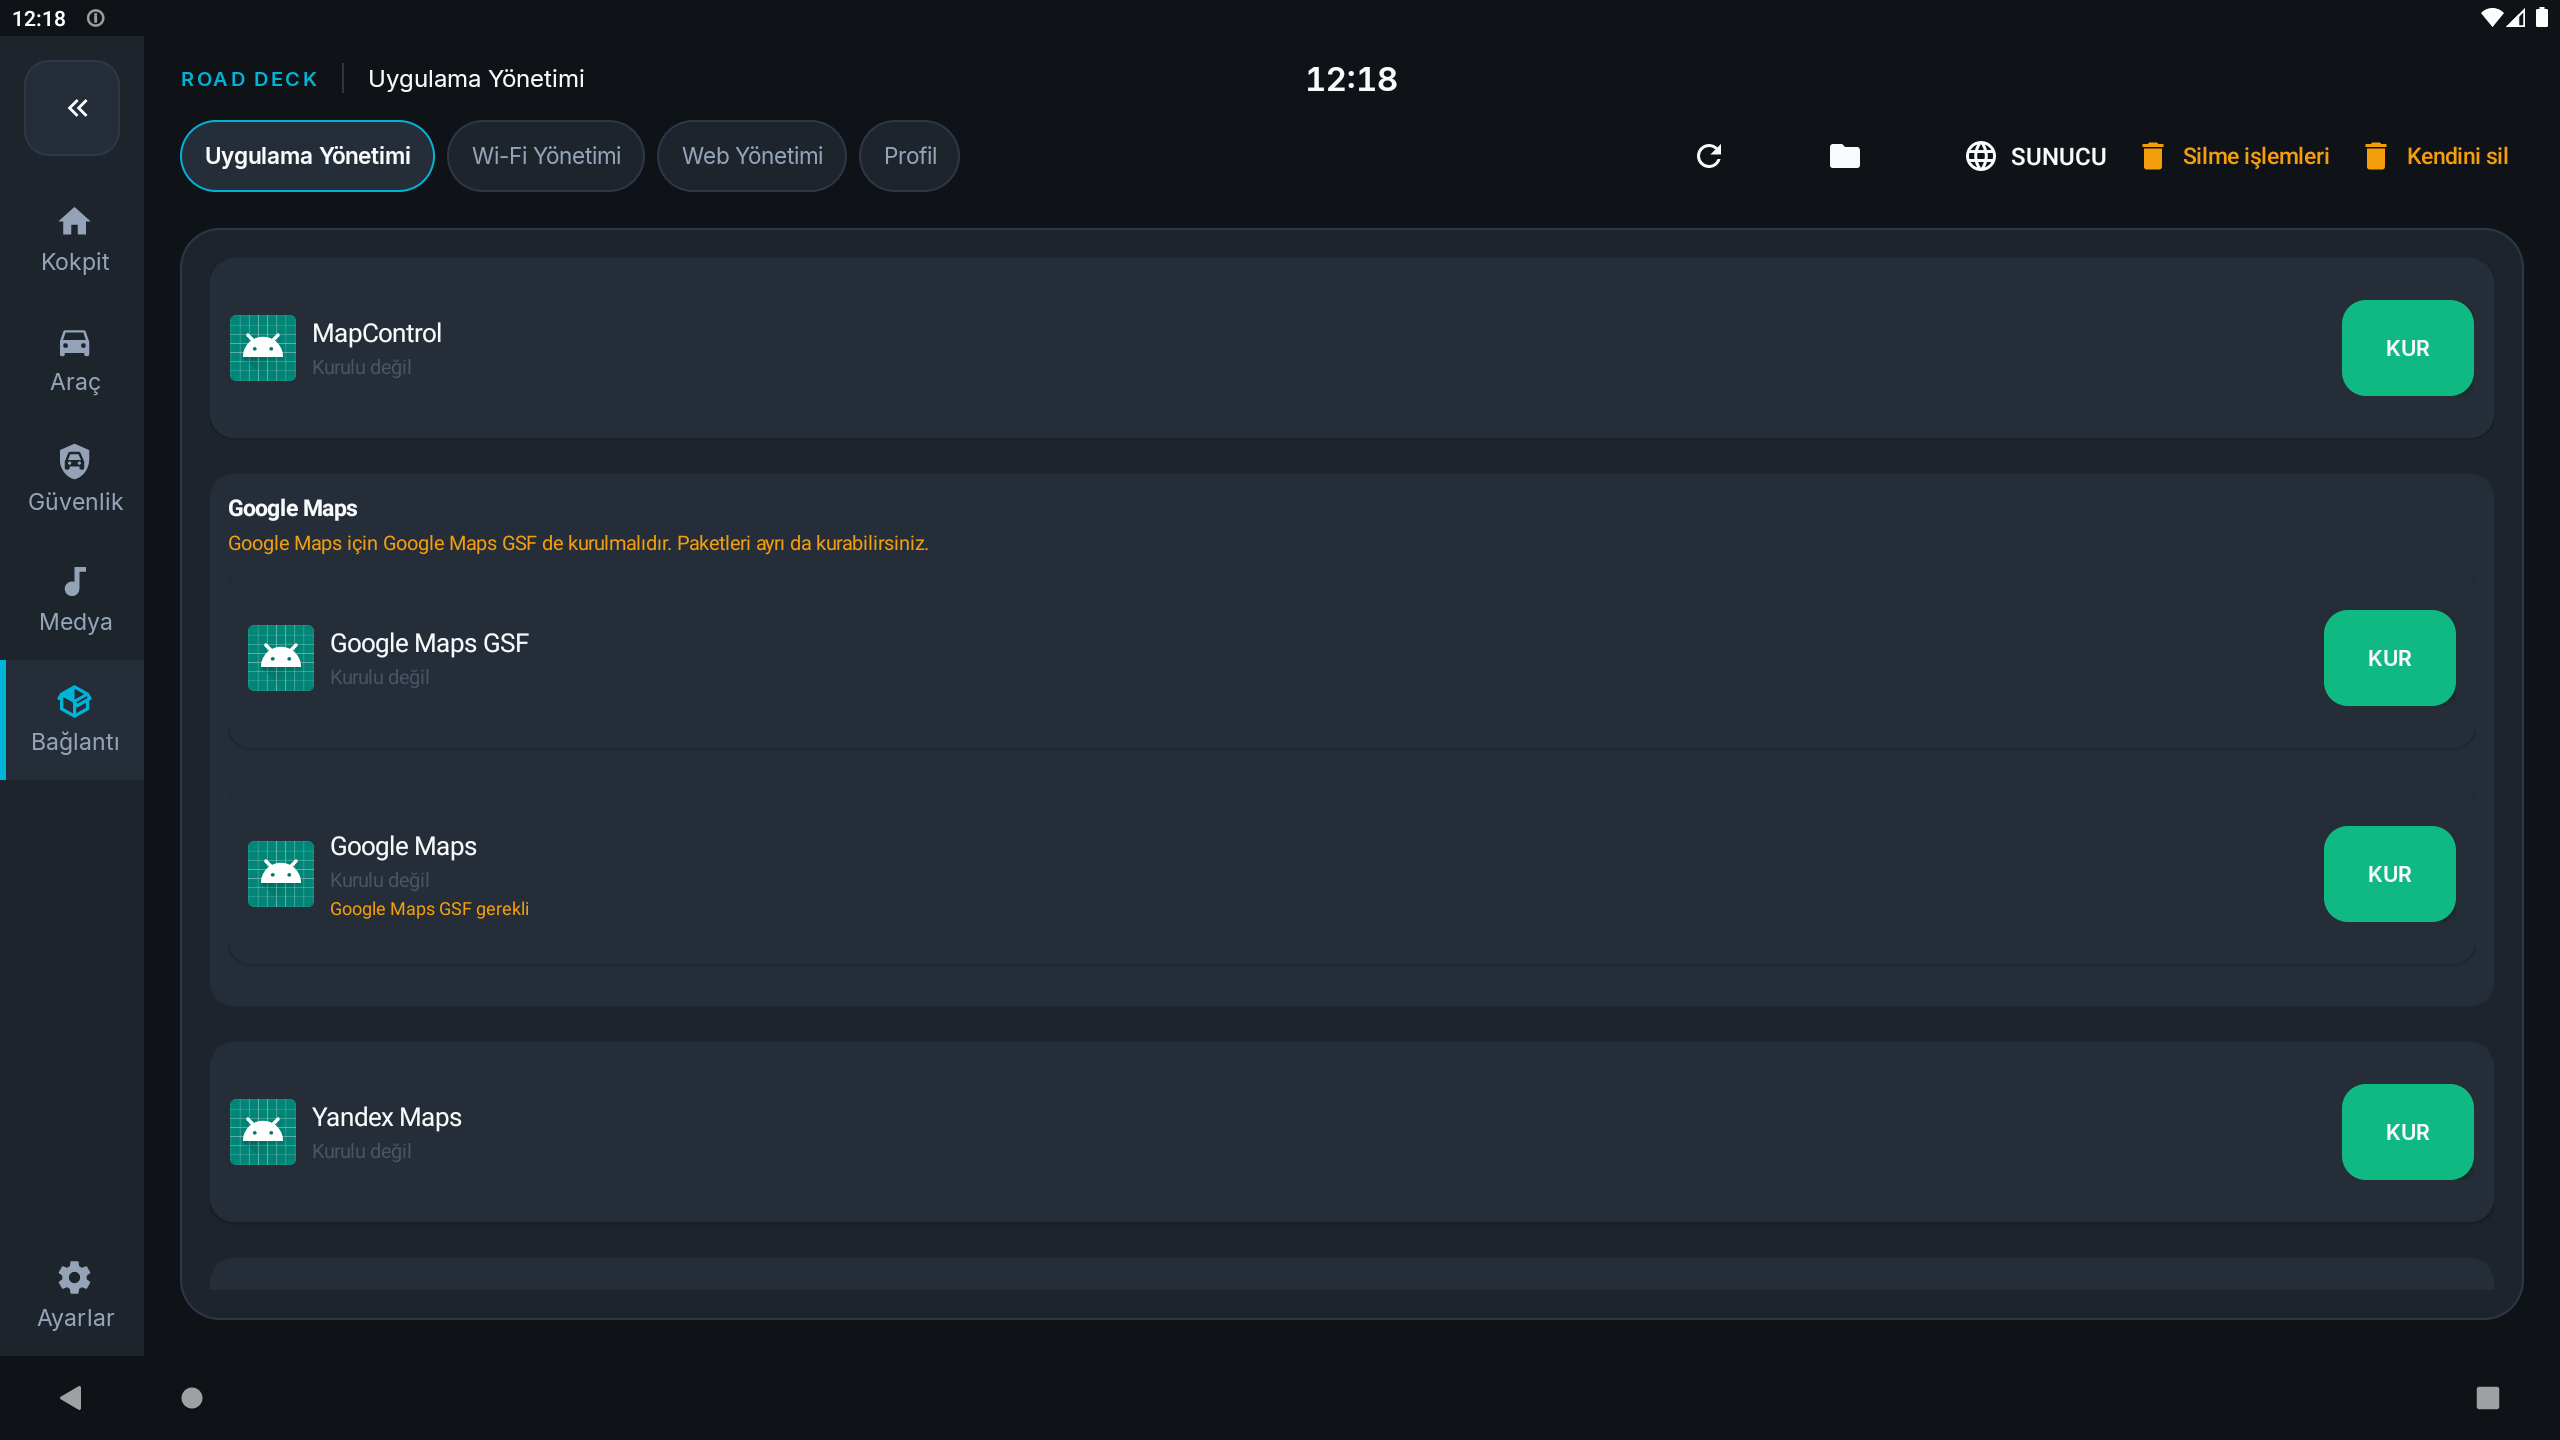
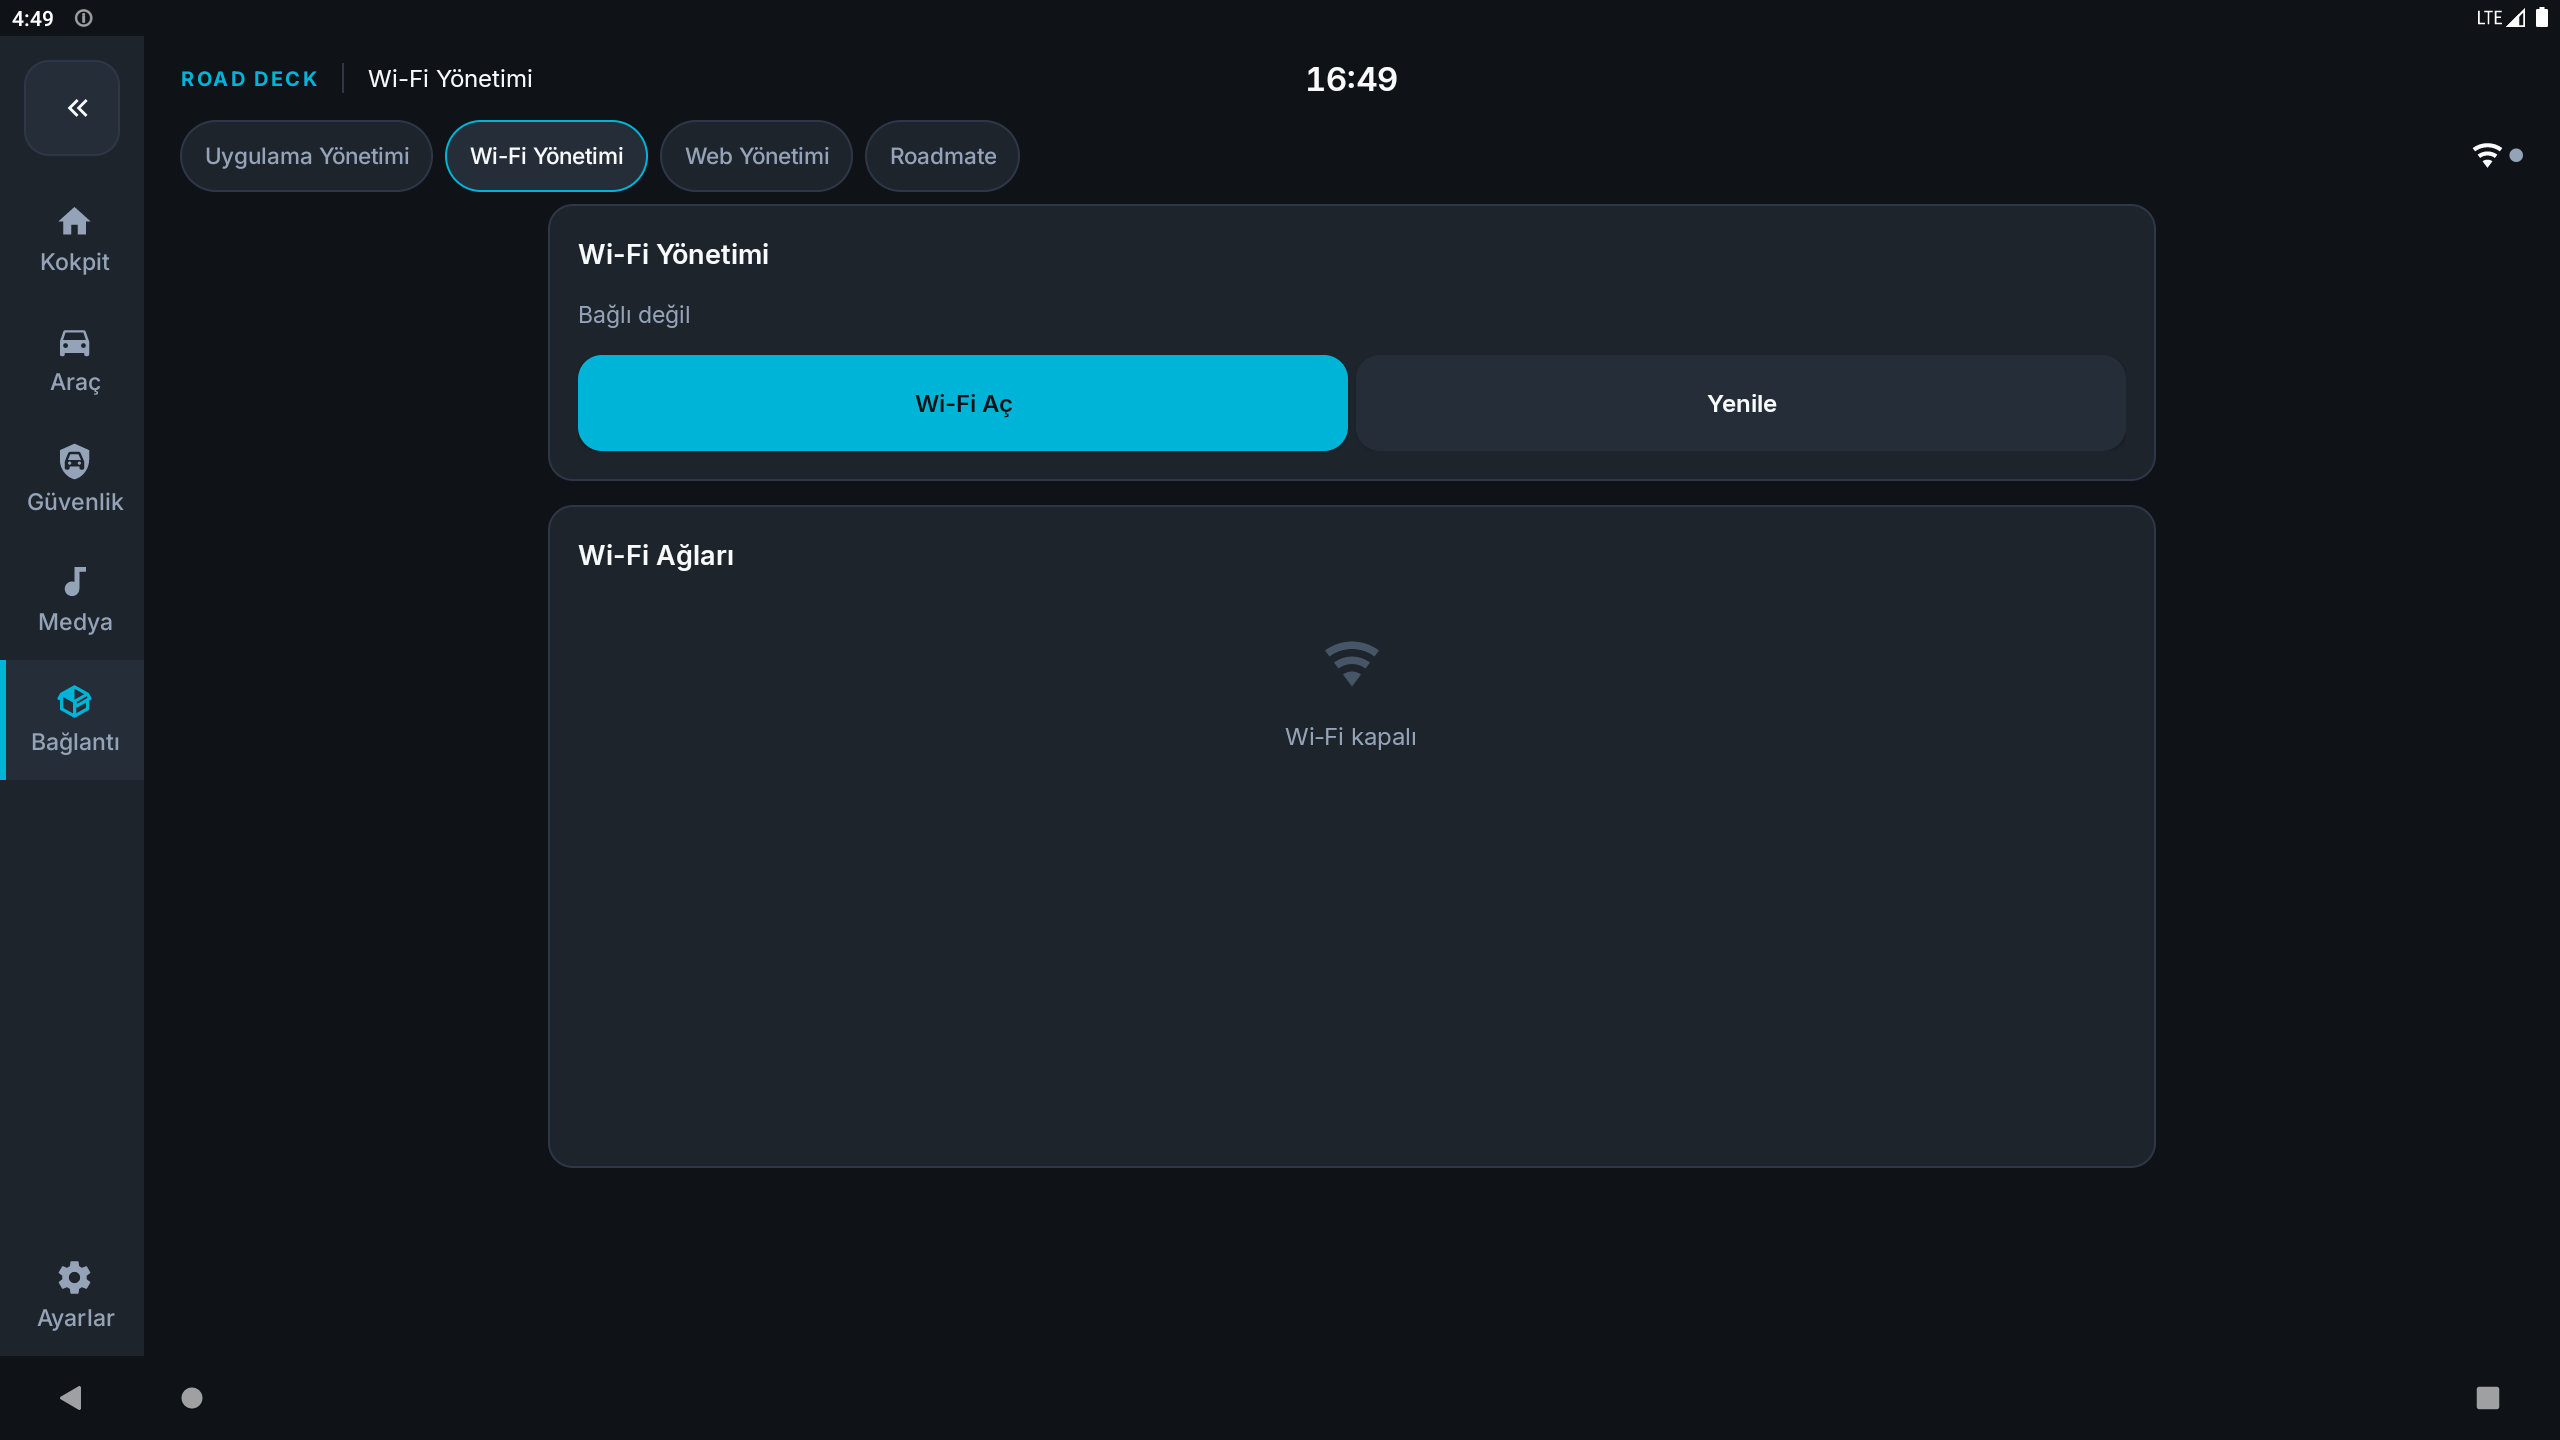
feat: Wi-Fi Yonetimi cockpit kart kompozisyonu
- Iki tam genislik CockpitCard: kontrol + ag listesi
- Wi-Fi Ac primary, Yenile secondary; 16sp semibold
- Wi-Fi kapaliyken ag kartinda CockpitEmptyState
- Ag satirlari level2, 18/15sp; durum ve sinyal renkleri token
- Tarama/toggle callback'leri korundu

diff --git a/app/src/main/java/com/mapcontrol/ui/builder/WifiTabBuilder.java b/app/src/main/java/com/mapcontrol/ui/builder/WifiTabBuilder.java
@@ -26,7 +26,9 @@ import androidx.appcompat.widget.AppCompatImageView;
 import androidx.core.content.ContextCompat;
 
 import com.mapcontrol.R;
+import com.mapcontrol.ui.cockpit.CockpitCard;
 import com.mapcontrol.ui.cockpit.CockpitEmptyState;
+import com.mapcontrol.ui.cockpit.CockpitSurfaces;
 import com.mapcontrol.ui.cockpit.CockpitTokens;
 import com.mapcontrol.ui.theme.UiStyles;
 
@@ -57,47 +59,29 @@ public class WifiTabBuilder {
     public LinearLayout build() {
         wifiTabContent = new LinearLayout(context);
         wifiTabContent.setOrientation(LinearLayout.VERTICAL);
-        wifiTabContent.setBackgroundColor(UiStyles.color(context, R.color.transparent));
-        int outerPad = UiStyles.dimenPx(context, R.dimen.oem_card_margin);
-        wifiTabContent.setPadding(outerPad, outerPad, outerPad, outerPad);
+        wifiTabContent.setBackgroundColor(android.graphics.Color.TRANSPARENT);
+        int margin = CockpitTokens.dim(context, R.dimen.ck_margin);
+        wifiTabContent.setPadding(margin, CockpitTokens.dim(context, R.dimen.ck_space_sm),
+                margin, margin);
 
-        if (context.getResources().getConfiguration().screenWidthDp >= 1000) {
-            LinearLayout columns = new LinearLayout(context);
-            columns.setOrientation(LinearLayout.HORIZONTAL);
-            columns.setBaselineAligned(false);
+        CockpitCard control = new CockpitCard(context,
+                context.getString(R.string.topbar_wifi_management));
+        LinearLayout controlBody = new LinearLayout(context);
+        controlBody.setOrientation(LinearLayout.VERTICAL);
+        control.addContent(controlBody);
+        addStatusAndControls(controlBody);
+        wifiTabContent.addView(control, new LinearLayout.LayoutParams(
+                LinearLayout.LayoutParams.MATCH_PARENT, LinearLayout.LayoutParams.WRAP_CONTENT));
 
-            LinearLayout left = createCard();
-            addPanelTitle(left, R.string.topbar_wifi_management);
-            addStatusAndControls(left);
-
-            LinearLayout right = createCard();
-            addPanelTitle(right, R.string.wifi_networks_title);
-            right.addView(createNetworkList(), new LinearLayout.LayoutParams(
-                    LinearLayout.LayoutParams.MATCH_PARENT, Math.round(220 * context.getResources().getDisplayMetrics().density)));
-
-            int gutter = UiStyles.dimenPx(context, R.dimen.spacing_medium);
-            LinearLayout.LayoutParams leftLp = new LinearLayout.LayoutParams(
-                    0, LinearLayout.LayoutParams.WRAP_CONTENT, 1f);
-            leftLp.setMarginEnd(gutter / 2);
-            LinearLayout.LayoutParams rightLp = new LinearLayout.LayoutParams(
-                    0, LinearLayout.LayoutParams.WRAP_CONTENT, 1f);
-            rightLp.setMarginStart(gutter / 2);
-            columns.addView(left, leftLp);
-            columns.addView(right, rightLp);
-            wifiTabContent.addView(columns, new LinearLayout.LayoutParams(
-                    LinearLayout.LayoutParams.MATCH_PARENT,
-                    LinearLayout.LayoutParams.WRAP_CONTENT));
-        } else {
-            LinearLayout card = createCard();
-            addPanelTitle(card, R.string.topbar_wifi_management);
-            addStatusAndControls(card);
-            card.addView(createNetworkList(), new LinearLayout.LayoutParams(
-                    LinearLayout.LayoutParams.MATCH_PARENT,
-                    Math.round(220 * context.getResources().getDisplayMetrics().density)));
-            wifiTabContent.addView(card, new LinearLayout.LayoutParams(
-                    LinearLayout.LayoutParams.MATCH_PARENT,
-                    LinearLayout.LayoutParams.WRAP_CONTENT));
-        }
+        CockpitCard networks = new CockpitCard(context,
+                context.getString(R.string.wifi_networks_title));
+        LinearLayout.LayoutParams listLp = new LinearLayout.LayoutParams(
+                LinearLayout.LayoutParams.MATCH_PARENT, CockpitTokens.dp(context, 360));
+        networks.addContent(createNetworkList(), listLp);
+        LinearLayout.LayoutParams networksLp = new LinearLayout.LayoutParams(
+                LinearLayout.LayoutParams.MATCH_PARENT, LinearLayout.LayoutParams.WRAP_CONTENT);
+        networksLp.topMargin = CockpitTokens.dim(context, R.dimen.ck_gutter);
+        wifiTabContent.addView(networks, networksLp);
 
         updateWifiStatus();
         return wifiTabContent;
@@ -106,8 +90,8 @@ public class WifiTabBuilder {
     private LinearLayout createCard() {
         LinearLayout card = new LinearLayout(context);
         card.setOrientation(LinearLayout.VERTICAL);
-        UiStyles.setGlassCardBackground(card);
-        int innerPad = UiStyles.dimenPx(context, R.dimen.oem_card_inner_padding);
+        CockpitSurfaces.level1(card);
+        int innerPad = CockpitTokens.dim(context, R.dimen.ck_card_padding);
         card.setPadding(innerPad, innerPad, innerPad, innerPad);
         return card;
     }
@@ -127,9 +111,9 @@ public class WifiTabBuilder {
     private void addStatusAndControls(LinearLayout card) {
         wifiStatusLine = new TextView(context);
         wifiStatusLine.setText(R.string.wifi_not_connected);
-        wifiStatusLine.setTextSize(13);
-        wifiStatusLine.setTextColor(UiStyles.color(context, R.color.textSecondaryCool));
-        wifiStatusLine.setPadding(16, 0, 16, UiStyles.dimenPx(context, R.dimen.spacing_small));
+        CockpitTokens.bodySm(wifiStatusLine);
+        wifiStatusLine.setTextColor(CockpitTokens.color(context, R.color.ck_text_medium));
+        wifiStatusLine.setPadding(0, 0, 0, CockpitTokens.dim(context, R.dimen.ck_space_sm));
         wifiStatusLine.setBackgroundColor(UiStyles.color(context, R.color.transparent));
         card.addView(wifiStatusLine, new LinearLayout.LayoutParams(
                 LinearLayout.LayoutParams.MATCH_PARENT,
@@ -137,17 +121,17 @@ public class WifiTabBuilder {
 
         LinearLayout controlButtonsRow = new LinearLayout(context);
         controlButtonsRow.setOrientation(LinearLayout.HORIZONTAL);
-        controlButtonsRow.setPadding(16, UiStyles.dimenPx(context, R.dimen.spacing_small),
-                16, UiStyles.dimenPx(context, R.dimen.spacing_medium));
+        controlButtonsRow.setPadding(0, CockpitTokens.dim(context, R.dimen.ck_space_sm),
+                0, 0);
         controlButtonsRow.setGravity(android.view.Gravity.CENTER_VERTICAL);
         controlButtonsRow.setBackgroundColor(UiStyles.color(context, R.color.transparent));
 
         btnWifiToggle = new Button(context);
         btnWifiToggle.setText(R.string.wifi_turn_on);
-        btnWifiToggle.setTextSize(14);
-        btnWifiToggle.setTextColor(UiStyles.color(context, R.color.textPrimary));
-        btnWifiToggle.setTypeface(null, android.graphics.Typeface.BOLD);
-        UiStyles.styleOemButton(btnWifiToggle, UiStyles.color(context, R.color.buttonPrimary));
+        btnWifiToggle.setTextSize(16);
+        btnWifiToggle.setTypeface(CockpitTokens.inter(context, CockpitTokens.WEIGHT_SEMIBOLD));
+        UiStyles.styleOemButton(btnWifiToggle, CockpitTokens.color(context, R.color.ck_accent));
+        btnWifiToggle.setTextColor(CockpitTokens.color(context, R.color.ck_on_accent));
         btnWifiToggle.setPadding(24, 12, 24, 12);
         btnWifiToggle.setOnClickListener(v -> toggleWifi());
         LinearLayout.LayoutParams toggleParams = new LinearLayout.LayoutParams(
@@ -157,13 +141,10 @@ public class WifiTabBuilder {
 
         btnScanWifi = new Button(context);
         btnScanWifi.setText(R.string.wifi_refresh);
-        btnScanWifi.setTextSize(14);
-        btnScanWifi.setTextColor(UiStyles.color(context, R.color.textPrimary));
-        btnScanWifi.setTypeface(null, android.graphics.Typeface.BOLD);
-        UiStyles.styleOemButton(btnScanWifi, UiStyles.color(context, R.color.oemAccent));
-        if (com.mapcontrol.ui.theme.ThemeManager.isCyber(context)) {
-            btnScanWifi.setTextColor(android.graphics.Color.BLACK);
-        }
+        btnScanWifi.setTextSize(16);
+        btnScanWifi.setTypeface(CockpitTokens.inter(context, CockpitTokens.WEIGHT_SEMIBOLD));
+        UiStyles.styleOemButton(btnScanWifi, CockpitTokens.color(context, R.color.ck_surface_2));
+        btnScanWifi.setTextColor(CockpitTokens.color(context, R.color.ck_text_high));
         btnScanWifi.setPadding(24, 12, 24, 12);
         btnScanWifi.setOnClickListener(v -> scanWifiNetworks());
         LinearLayout.LayoutParams scanParams = new LinearLayout.LayoutParams(
@@ -236,6 +217,9 @@ public class WifiTabBuilder {
             callback.log("Wi-Fi durumu güncellendi: " + (isWifiEnabled ? "AÇIK" : "KAPALI"));
             updateWifiStatusIcon();
 
+            if (!isWifiEnabled) {
+                showWifiOffState();
+            }
             if (isWifiEnabled) {
                 handler.postDelayed(this::scanWifiNetworks, 500);
             }
@@ -249,6 +233,18 @@ public class WifiTabBuilder {
                 wifiStatusIcon.setTextColor(UiStyles.color(context, R.color.textLoading));
             }
         }
+    }
+
+    private void showWifiOffState() {
+        if (wifiListContainer == null) {
+            return;
+        }
+        wifiListContainer.removeAllViews();
+        wifiListContainer.addView(new CockpitEmptyState(context,
+                R.drawable.ic_mdi_wifi, context.getString(R.string.wifi_off_label)),
+                new LinearLayout.LayoutParams(
+                        LinearLayout.LayoutParams.MATCH_PARENT,
+                        LinearLayout.LayoutParams.WRAP_CONTENT));
     }
 
     private void updateWifiStatusIcon() {
@@ -453,13 +449,12 @@ public class WifiTabBuilder {
         wifiCard.setClickable(true);
         wifiCard.setFocusable(true);
 
-        UiStyles.applySolidRoundedBackgroundDp(wifiCard,
-                UiStyles.color(context, R.color.surfaceCardInner), 16f);
+        CockpitSurfaces.level2(wifiCard);
 
         LinearLayout.LayoutParams cardParams = new LinearLayout.LayoutParams(
                 LinearLayout.LayoutParams.MATCH_PARENT,
                 LinearLayout.LayoutParams.WRAP_CONTENT);
-        cardParams.setMargins(0, 0, 0, 12);
+        cardParams.setMargins(0, 0, 0, CockpitTokens.dim(context, R.dimen.ck_space_sm));
         wifiCard.setMinimumHeight(CockpitTokens.dim(context, R.dimen.ck_touch_primary));
 
         LinearLayout iconContainer = new LinearLayout(context);
@@ -488,9 +483,7 @@ public class WifiTabBuilder {
         TextView ssidText = new TextView(context);
         String ssid = result.SSID != null ? result.SSID : context.getString(R.string.wifi_hidden_network);
         ssidText.setText(ssid);
-        ssidText.setTextColor(UiStyles.color(context, R.color.textPrimary));
-        ssidText.setTextSize(18);
-        ssidText.setTypeface(null, android.graphics.Typeface.NORMAL);
+        CockpitTokens.title(ssidText);
         infoContainer.addView(ssidText);
 
         LinearLayout detailRow = new LinearLayout(context);
@@ -536,12 +529,12 @@ public class WifiTabBuilder {
                 detailStr += sep + signalQuality;
             }
             detailText.setText(detailStr);
-            detailText.setTextColor(UiStyles.color(context, R.color.accentHighlight));
+            detailText.setTextColor(CockpitTokens.color(context, R.color.ck_accent));
         } else {
             detailText.setText(security + sep + signalQuality);
-            detailText.setTextColor(UiStyles.color(context, R.color.textSecondaryCool));
+            detailText.setTextColor(CockpitTokens.color(context, R.color.ck_text_medium));
         }
-        detailText.setTextSize(13);
+        CockpitTokens.bodySm(detailText);
         detailRow.addView(detailText);
 
         infoContainer.addView(detailRow);
